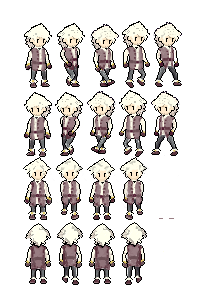
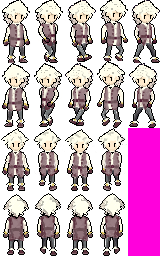
update charc

diff --git a/src/main.c b/src/main.c
@@ -23,9 +23,9 @@ int main(void)
     rpg.wind.view = sfView_createFromRect((sfFloatRect){0, 0, windowSize.x, windowSize.y});
 
     obj[0] = create_object("assets/hero_hitbox.png", (sfVector2f){10000, 1280}, (sfIntRect){0, 0, 32, 16}, sfTrue);
-    obj[1] = create_object("assets/hero.png", (sfVector2f){10000, 1280}, (sfIntRect){0, 0, 32, 64}, sfFalse);
-    obj[2] = create_object("assets/stupid_nathan.png", (sfVector2f){9950, 1280}, (sfIntRect){0, 0, 32, 64}, sfFalse);
-    obj[3] = create_object("assets/normal_dummy.png", (sfVector2f){9900, 1280}, (sfIntRect){0, 0, 32, 64}, sfFalse);
+    obj[1] = create_object("assets/perso_blanc.png", (sfVector2f){10000, 1280}, (sfIntRect){0, 0, 32, 64}, sfFalse);
+    obj[2] = create_object("assets/hero.png", (sfVector2f){9950, 1280}, (sfIntRect){0, 0, 32, 64}, sfFalse);
+    obj[3] = create_object("assets/stupid_nathan.png", (sfVector2f){9900, 1280}, (sfIntRect){0, 0, 32, 64}, sfFalse);
     obj[4] = create_object("assets/yes.png", V2F(0, 0), (sfIntRect){0, 0, 11776, 2560}, sfFalse);
     obj[5] = NULL;
     //house[0] = create_house(1, (sfVector2f){10100, 1050});
